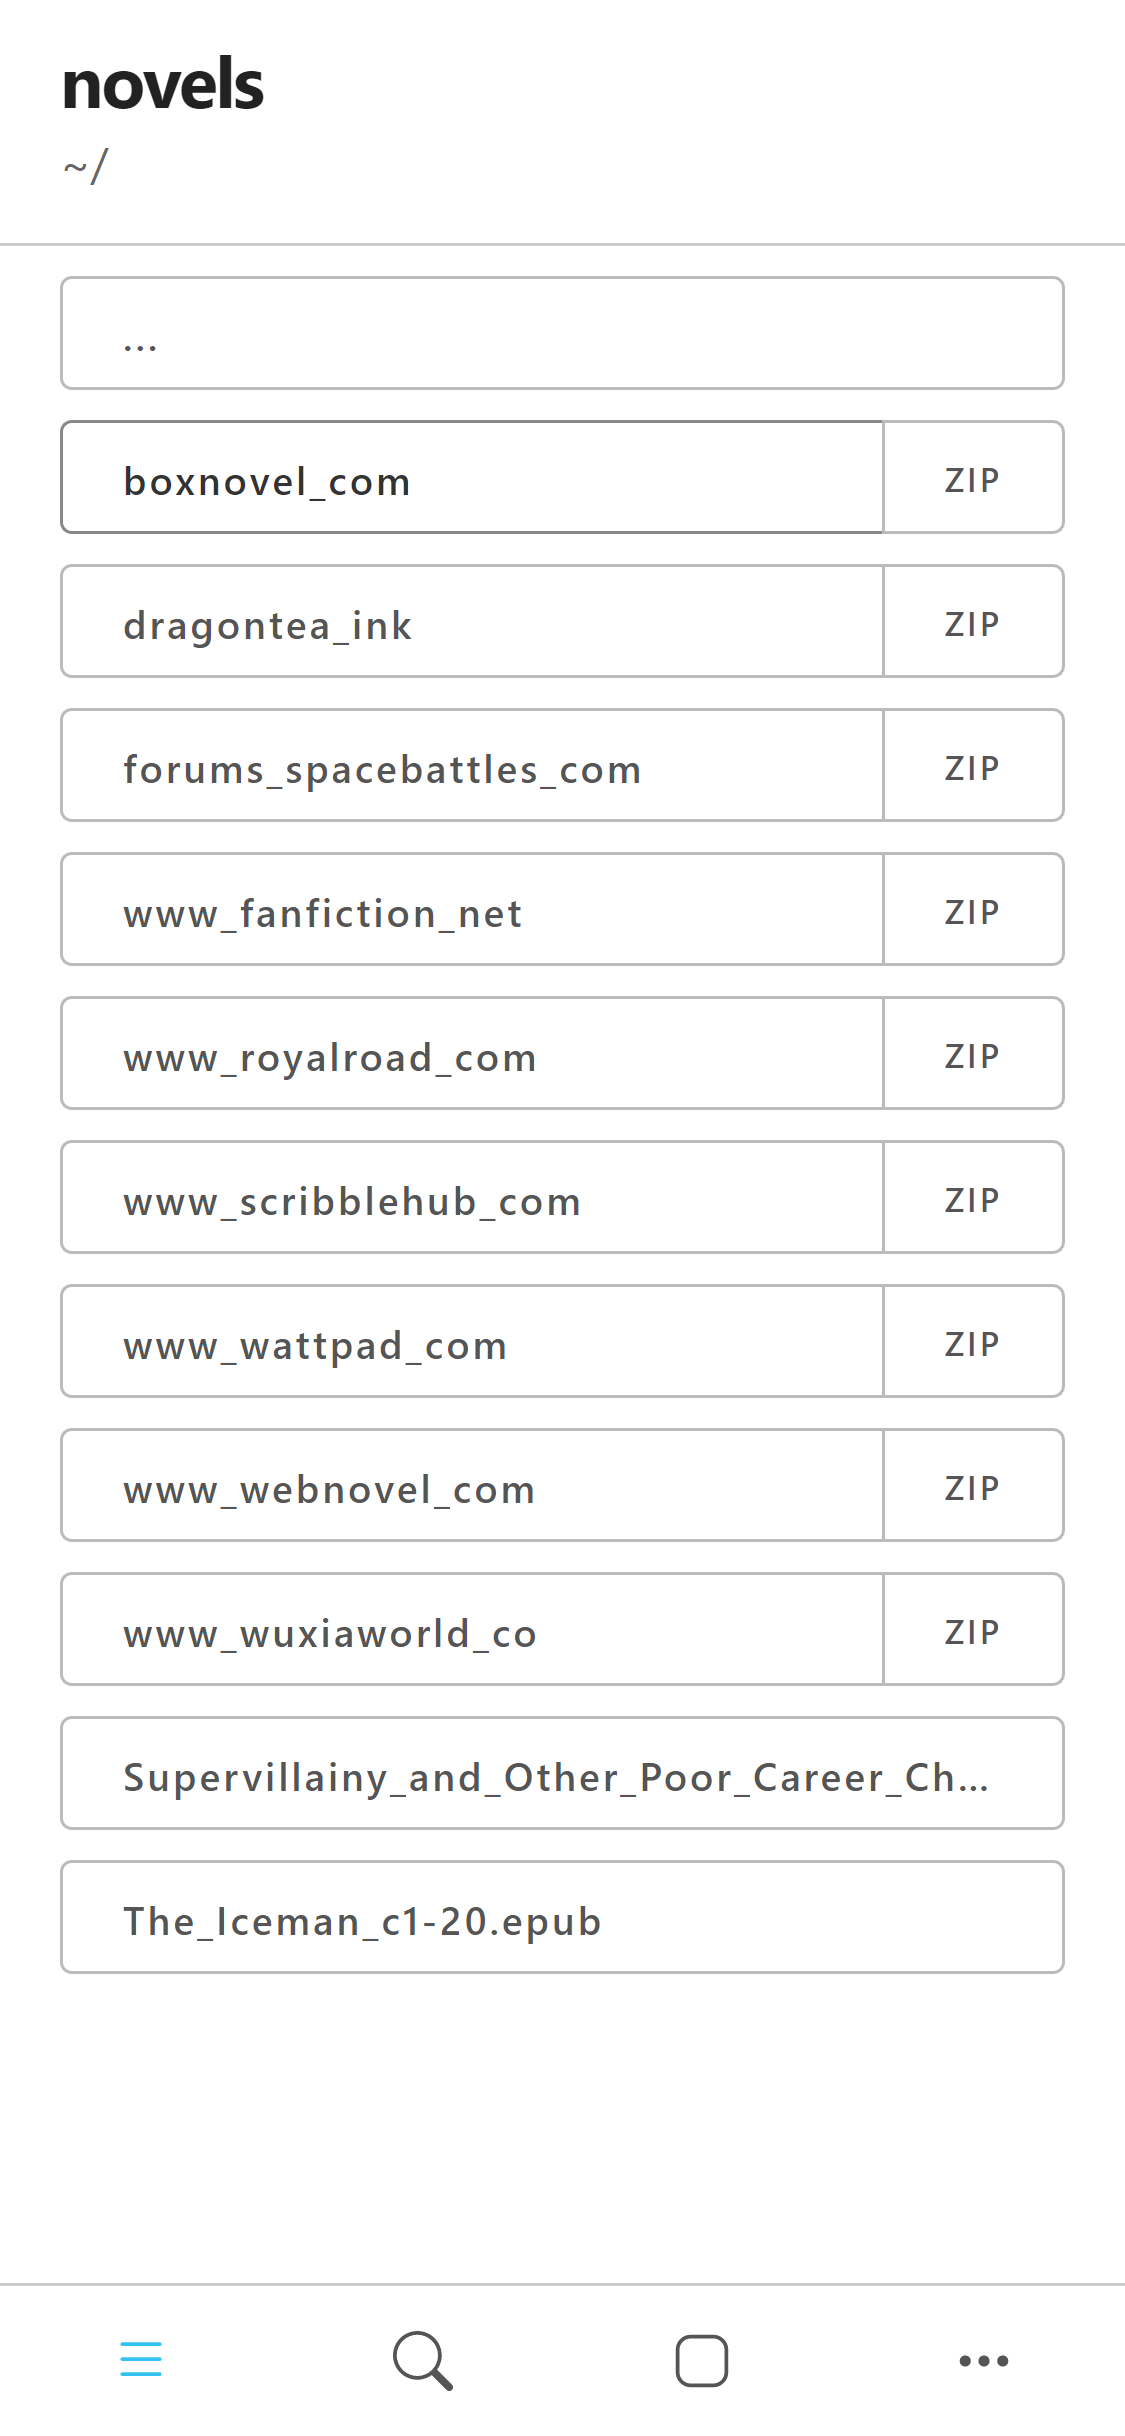
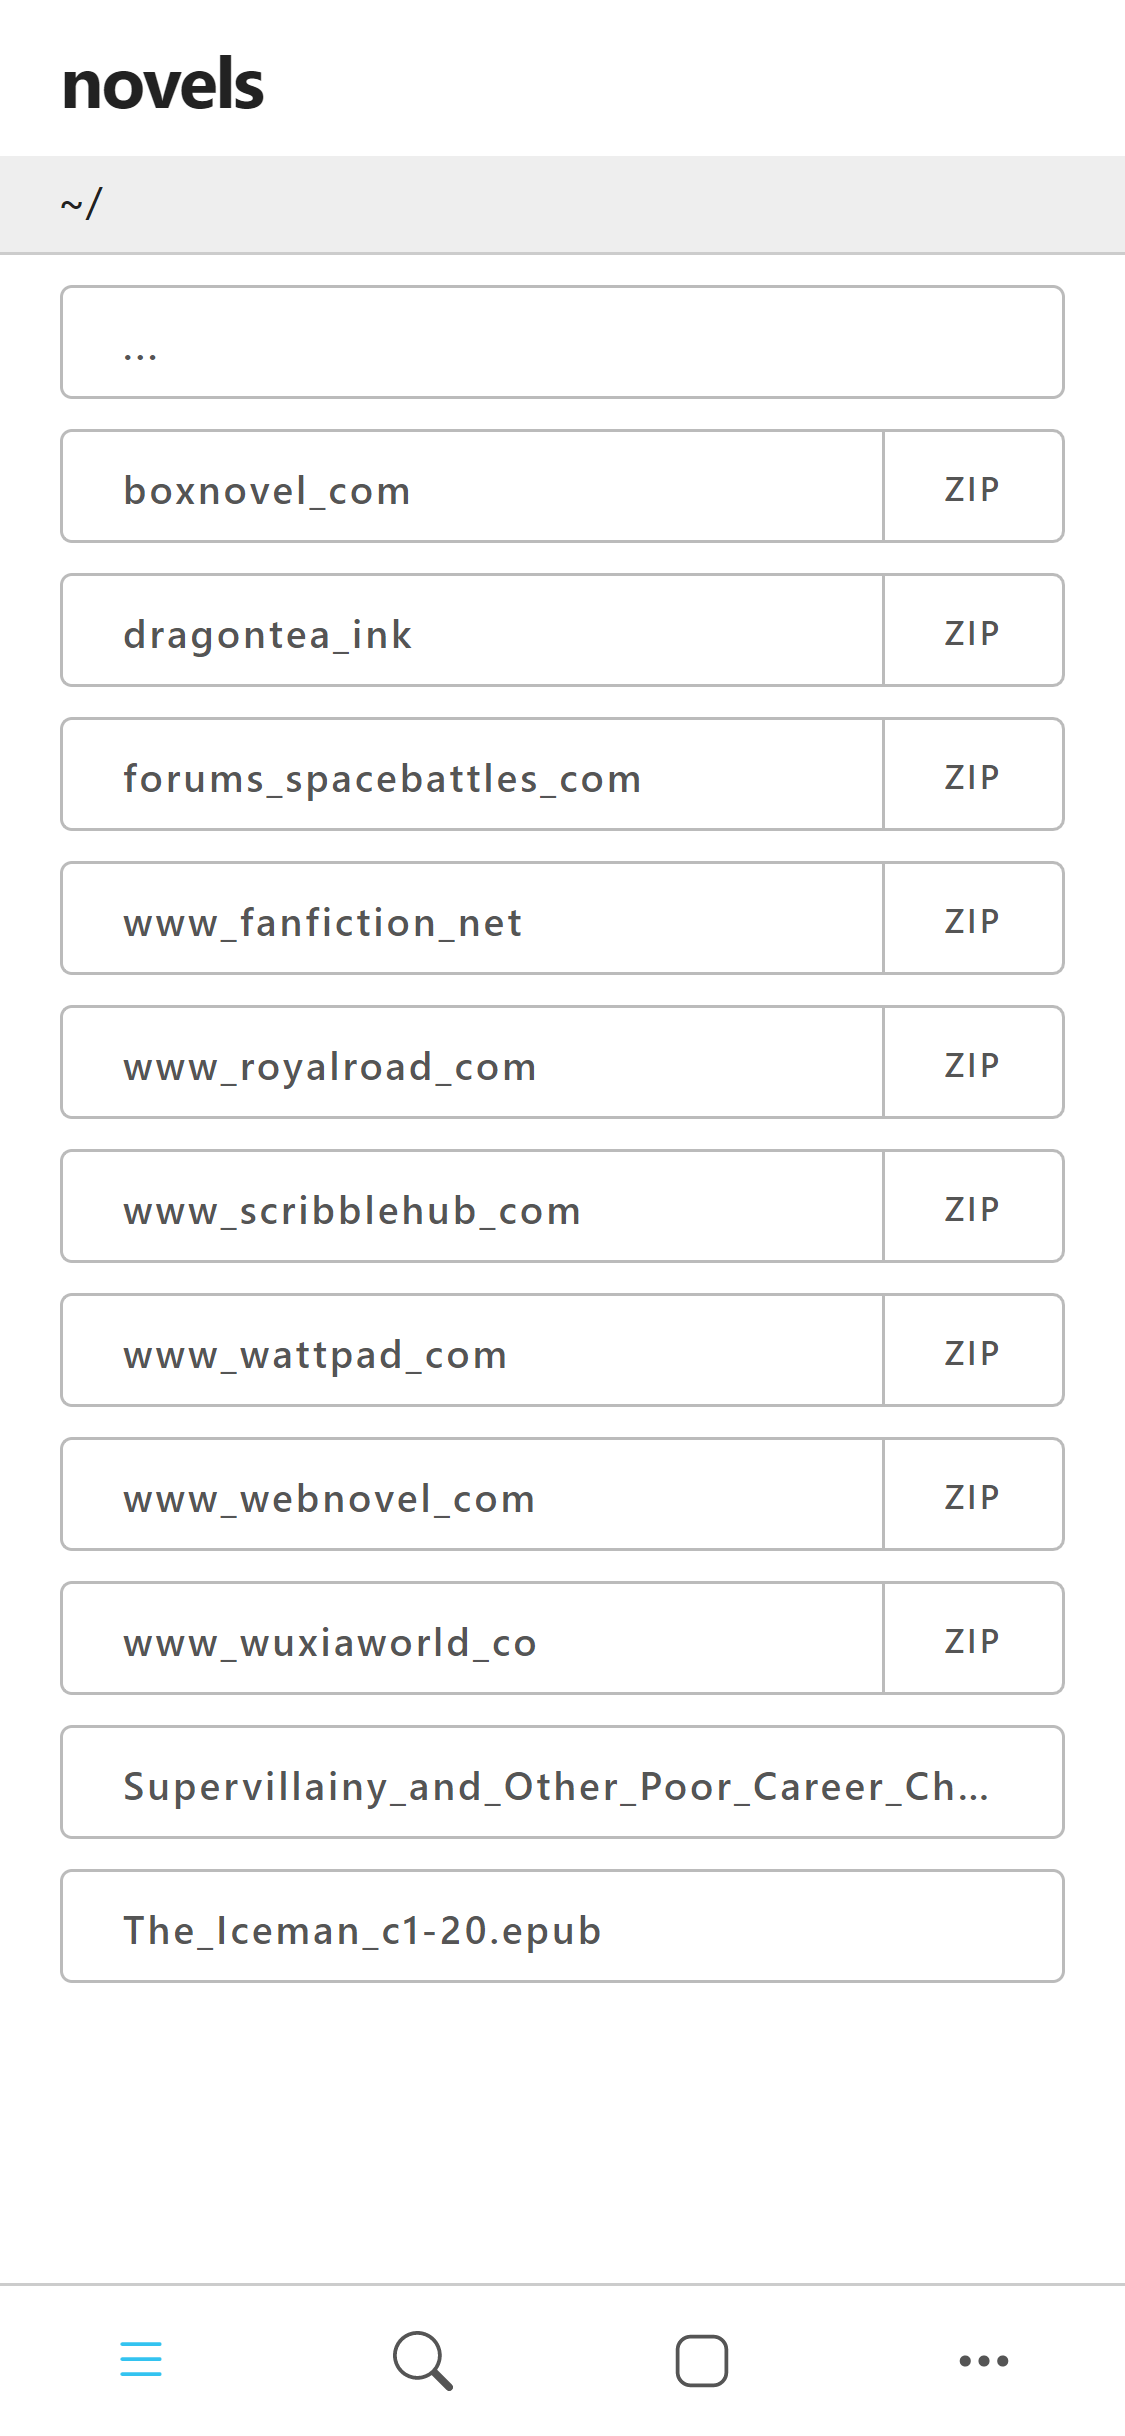
Changed subtitle style
subtitle is no longer in the same lane as icons, so they dont change position on view changes
subtitle is always present in search, this allows us to forgo conditional class depress

Changed region(s): [[0.0622, 0.156, 0.9333, 0.8112], [0.0311, 0.0624, 0.9644, 0.1248]]

diff --git a/qrshare/client/src/components/navigation/AppBar.svelte b/qrshare/client/src/components/navigation/AppBar.svelte
@@ -13,11 +13,10 @@
     $: actions = navs[active]?.actions;
 </script>
 
-<header class:sticky class:adjust-for-subtitle={true}>
-    <div class="container">
+<header class:sticky>
+    <div class="container content">
         <div class="title-wrapper">
             <h4 class="title line-clamp">{title}</h4>
-            <div class="subtitle line-clamp">{subtitle ?? ""}</div>
         </div>
         <nav class="actions">
             {#if actions}
@@ -29,6 +28,15 @@
             </div>
         </nav>
     </div>
+    {#if subtitle}
+        <div class="subtitle">
+            <div class="container">
+                <pre>
+                    {subtitle}
+                </pre>
+            </div>
+        </div>
+    {/if}
 </header>
 
 <style>
@@ -39,6 +47,11 @@
 
         /* header and content divider */
         border-bottom: 1px solid var(--color-divider);
+        padding-bottom: none;
+    }
+
+    h4 {
+        padding: 0;
     }
 
     .sticky {
@@ -48,7 +61,7 @@
         left: 0;
     }
 
-    .container {
+    .content {
         display: flex;
         align-items: center;
         justify-content: space-between;
@@ -69,23 +82,35 @@
         font-weight: bold;
         padding: 1rem 0;
         margin-bottom: 0rem;
-    }
-
-    .adjust-for-subtitle {
-        padding-bottom: 1rem;
-    }
-
-    .adjust-for-subtitle .title {
-        padding-bottom: 0rem;
-    }
-
-    .adjust-for-subtitle .actions {
-        padding-top: 1rem;
+        word-break: none;
     }
 
     .subtitle {
-        color: var(--color-subtitle);
-        margin-bottom: 0.5rem;
+        background-color: var(--color-secondary-background);
+    }
+
+    pre {
+        margin: 0;
+        padding-top: 0.5rem;
+        padding-bottom: 0.5rem;
+
+        font-size: 1.4rem;
+
+        overflow-y: hidden;
+    }
+
+    pre::-webkit-scrollbar {
+        height: 1px;
+        display: absolute;
+    }
+
+    pre::-webkit-scrollbar-track {
+        background: var(--color-light);
+    }
+
+    /* Handle */
+    pre::-webkit-scrollbar-thumb {
+        background: var(--color-light-dark);
     }
 
     .actions {

diff --git a/qrshare/client/src/main/views/Results.svelte b/qrshare/client/src/main/views/Results.svelte
@@ -1,4 +1,5 @@
 <script>
+    import { onMount } from "svelte";
     import {
         title,
         subtitle,
@@ -23,6 +24,10 @@
         }
     }
 
+    onMount(() => {
+        subtitle.set(1, $currentRoute.href ? "~" + $currentRoute.href : "~/");
+    });
+
     function load(e) {
         const route = e.detail;
         navigateTo({ id: 1, url: route.href, state: route, name: route.name });
@@ -45,12 +50,12 @@
 <div class="container">
     <div class="content" class:collapsed={$searchCollapsed}>
         <!-- Searchbar -->
-        <div class="search-bar" class:depress={$subtitle.current}>
+        <div class="search-bar">
             <SearchBar />
         </div>
 
         <!-- Results -->
-        <li class="grid">
+        <ul class="grid">
             {#each $processedResults as route, i}
                 <SearchListItem
                     id={i}
@@ -60,7 +65,7 @@
                     on:zip={zip}
                 />
             {/each}
-        </li>
+        </ul>
     </div>
 </div>
 
@@ -93,6 +98,7 @@
         column-gap: 1rem;
 
         margin-top: 1rem;
+        margin-bottom: 1rem;
     }
     @media (min-width: 750px) {
         .content :global(form) {
@@ -101,11 +107,7 @@
             /* hack to give form an fixed height */
             position: sticky;
             position: -webkit-sticky;
-            top: 7.6rem;
-        }
-
-        .depress :global(form) {
-            top: 10rem;
+            top: 10.3rem;
         }
 
         .grid {

diff --git a/qrshare/client/src/main/router/routes.js b/qrshare/client/src/main/router/routes.js
@@ -1,5 +1,5 @@
 import { Home, Results, Qrcode, More } from "../views";
-import { meta, qrMarkup, updateStore, search, title } from "../store";
+import { meta, qrMarkup, updateStore, search, title, subtitle } from "../store";
 import { requestJson, requestText } from "../../request";
 import { navigateTo } from "../../module/router";
 
@@ -66,6 +66,7 @@ const options = {
     init: async (route) => {
         /* setting default titles */
         title._set({ key: route.key });
+        subtitle._set({ key: route.key });
         title.update(0, "Loading...");
 
         navigateTo({

diff --git a/qrshare/client/src/main/App.svelte b/qrshare/client/src/main/App.svelte
@@ -62,11 +62,6 @@
             click: () => {
                 if ($activeRoute.key === 1) return;
 
-                subtitle.set(
-                    1,
-                    $currentRoute.href ? "~" + $currentRoute.href : null
-                );
-
                 // if there were no prior visit to search
                 if ($activeRoute[1] === undefined) {
                     title.cached(1, "Search");

diff --git a/qrshare/client/public/global.css b/qrshare/client/public/global.css
@@ -7,6 +7,7 @@
     --color-warning: #cc3300;
 
     --color-background: #ffffff;
+    --color-secondary-background: #eee;
     --color-divider: #ccc;
     --color-subtitle: #666;
     --color-button-border: #bbb;

diff --git a/qrshare/client/src/main/views/Qrcode.svelte b/qrshare/client/src/main/views/Qrcode.svelte
@@ -6,7 +6,7 @@
 
     onMount(() => {
         title.set(2, "QR");
-        subtitle.set(2, "scan to share");
+        subtitle.set(2, "Scan to share");
     });
 </script>
 

diff --git a/qrshare/client/src/main/components/RouteList.svelte b/qrshare/client/src/main/components/RouteList.svelte
@@ -41,3 +41,9 @@
 {:else}
     <p>Empty</p>
 {/if}
+
+<style>
+    ul {
+        margin-bottom: 0;
+    }
+</style>
